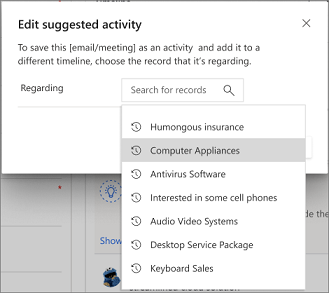
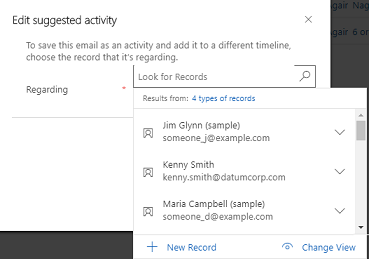
updated with screens

diff --git a/ai-docs/sales/premium-auto-capture.md b/ai-docs/sales/premium-auto-capture.md
@@ -16,11 +16,12 @@ caps.latest.revision: 01
 
 # Premium auto capture
 
-Premium auto capture provides suggestions to create contacts (in addition to capturing emails and meetings), based on communications by reducing overall time spent on these tasks and enabling sales personnel to focus on generating revenue.
+Premium auto capture provides suggestions to create contacts and activities in addition to capturing emails and meetings, based on communications by reducing overall time spent on these tasks and enabling sales personnel to focus on generating revenue.
+
 
 ## Provide consent
 
-When administrator enables premium auto capture, you need to provide consent  to allow Dynamics 365 Sales to access your Outlook data so that auto capture can provide suggestions on activities and contacts. You can provide consent through one of the following:
+When administrator enables premium auto capture, you need to provide consent to allow Dynamics 365 Sales to access your Outlook data so that auto capture can provide suggestions on activities and contacts. You can provide consent through one of the following options:
 
 -	[Timeline](#through-timeline)
 
@@ -34,17 +35,14 @@ When administrator enables premium auto capture, you need to provide consent  to
 
 2.	From the site map, select an entity. For example, **Opportunities**.
 
-3.	Select a record from the list. For example, Interest shown in AX27.
-
-    > [!div class="mx-imgBorder"]
-    > ![ ](media/ " ")
+3.	Select a record from the list.
 
 4.	On the **Timeline**, select **Allow access** to provide consent.
 
     > [!div class="mx-imgBorder"]
     > ![Provide consent on timeline](media/auto-capture-timeline-provide-consent.png "Provide consent on timeline") 
 
-    After you provide your consent, premium auto capture gathers the relevant suggestions, such as contacts and activities.
+    After you provide your consent, auto capture gathers the relevant suggestions, such as contacts and activities.
 
 ### Through Relationship assistant section
 
@@ -70,8 +68,15 @@ When administrator enables premium auto capture, you need to provide consent  to
 
 3.	From the site map, select **Sales Insights** > **Personal settings** > **Productivity intelligence** > **Auto capture**.
 
-<!-- complete this section -->
+4.	Enable the **Enable preview version** option to provide consent that allows Dynamics 365 to access your Outlook data to get activity and contact suggestions. 
 
+    > [!div class="mx-imgBorder"]
+    > ![Provide consent through personal settings](media/auto-capture-premium-consent-personal-settings.png "Provide consent through personal settings") 
+
+    > [!NOTE]
+    > Disable the **Enable preview version** option if you don't want Dynamics 365 to access your Outlook data to get activity and contact suggestions. 
+
+     After you provide your consent, the auto capture gathers the relevant suggestions, such as contacts and activities.
 
 
 ## Manage activity suggestions on Timeline
@@ -83,7 +88,7 @@ When you open a record of an entity, the **Timeline** displays the activity sugg
 
 By default, a single suggestion is displayed. Select **Show more** and the suggestions are expanded to display up to three suggestions. 
 
-If you have more than three suggestions, the **Show all** option is displayed. Select **Show all** to view all the available suggestions.
+If you've more than three suggestions, the **Show all** option is displayed. Select **Show all** to view the list available suggestions.
 
 > [!div class="mx-imgBorder"]
 > ![Auto capture all activity suggestions](media/auto-capture-premium-all-activity-suggestions.png "Auto capture all activity suggestions")
@@ -93,18 +98,18 @@ If you have more than three suggestions, the **Show all** option is displayed. S
     > [!div class="mx-imgBorder"]
     > ![Save activity suggestion on timeline](media/auto-capture-premium-save-activity-suggestion-timeline.png "Save activity suggestion on timeline") 
 
--	**Edit**: Select this option to add a suggestion as an activity for another record. When you edit and save the suggestion, it will be available as activity on the **Timeline** wall of the added record and is visible for users who access that record. For example, you opened an opportunity **Interest shown in AX27**. On the **Timeline**, you observe that **Gern Blanston sent an email** suggestion is more appropriate for **Computer Appliances** opportunity than the suggested opportunity. Select the edit option and use the **Regarding** lookup entity to choose **Computer Appliances**. 
+-	**Edit**: Select this option to add a suggestion as an activity for another record. When you edit and save the suggestion, it's available as activity on the **Timeline** wall of the added record and is visible for users who has access to the record. For example, you opened an email from **Gern Blanston**. On the **Timeline**, you observe that **Gern Blanston sent an email** suggestion is more appropriate for **Jim Glynn** than the suggested email. Select the edit option and use the **Regarding** lookup entity to choose **Jim Glynn**. 
  
     > [!div class="mx-imgBorder"]
     > ![Edit activity suggestion on timeline](media/auto-capture-premium-edit-activity-suggestion-timeline.png "Edit activity suggestion on timeline") 
 
-    Save the change and a confirmation message displays specifying that the activity is added to the **Computer Appliances** opportunity.
+    Save the change and a confirmation message displays specifying that the activity is added to the **Jim Glynn** email.
 
--	**Dismiss**: Select this option if you do not want a suggestion to be added as an activity on the **Timeline** wall. For example, you opened an opportunity **Interest shown in AX27**. On the **Timeline**, you observe that **Gern Blanston sent an email** suggestion is not appropriate for regarding field that it is associated with and you want to ignore. Select the dismiss option and a confirmation message is displays. Select **OK** and the suggestion is ignored from the list. 
+-	**Dismiss**: Select this option if you don't want to add a suggestion as activity on the **Timeline** wall. For example, you opened an opportunity **Interest shown in AX27**. On the **Timeline**, you observe that **Gern Blanston sent an email** suggestion is not appropriate for regarding fields that it is associated with and you want to ignore. Select the dismiss option and a confirmation message is displays. Select **OK** and the suggestion is ignored from the list. 
 
 ## Manage activity suggestions through grid
 
-The activity suggestions grid provides a single view for all the captured activities based on your communications. This ensures that the information is not lost on **Timeline** and helps you keep track of activity suggestions at one location (**Activity suggestion** grid). The activity list consists of emails and meetings that are fetched and captured from your Outlook data by premium auto capture. 
+The activity suggestions grid provides a single view for all the captured activities based on your communications. This ensures the information isn't lost on **Timeline** and helps you track activity suggestions at one location (**Activity suggestion** grid). The activity list consists of emails and meetings that are fetched and captured from your Outlook data by premium auto capture. 
 
 > [!div class="mx-imgBorder"]
 > ![Activity suggestion grid view](media/auto-capture-premium-activity-suggestion-grid-view.png "Activity suggestion grid view")
@@ -119,7 +124,7 @@ The Activity suggestions grid consists of the following columns:
 
 -	**Regarding**: This column specifies the record for which the activity can be added.
 
-Also, **Relationship assistant** displays a card to alert you when new activity suggestions are available. Select **Open activity suggestions** to open the **Activity suggestions** grid and perform appropriate actions on the suggestions.
+Also, **Relationship assistant** displays a card to alert you when new activity suggestions are available. Select **Open activity suggestions** to open the **Activity suggestions** grid and take appropriate actions on the suggestions.
 
 > [!div class="mx-imgBorder"]
 > ![Activity suggestion in relationship assistant](media/auto-capture-premium-activity-suggestion-relationship-assistant.png "Activity suggestion in relationship assistant")
@@ -136,14 +141,14 @@ To save an activity to be visible on the **Timeline** wall for a record for othe
 
 1.	Sign in to Dynamics 365 Sales Hub app.
 
-2.	From the site map, select **Auto capture (preview)** > **Activity suggestions**.
+2.	From the site map, select **AutoCapture Preview** > **Activity suggestions**.
 
     A list of available activities displays.
 
     > [!div class="mx-imgBorder"]
     > ![Activity suggestion grid view](media/auto-capture-premium-activity-suggestion-grid-view.png "Activity suggestion grid view")
 
-3.	Select an activity. In this example, we are selecting an email from **Phyllis Reid** that is related to **Printers and Paper clips**.
+3.	Select an activity. In this example, we're selecting an email from **Phyllis Reid** that is related to **Printers and Paper clips**.
 
     > [!div class="mx-imgBorder"]
     > ![Select an activity](media/auto-capture-premium-select-activity-suggestion.png "Select an activity")
@@ -159,25 +164,25 @@ To save an activity to be visible on the **Timeline** wall for a record for othe
 
 ### Edit activity
 
-After reviewing the activity suggestion, you identify that the activity suggestion does not belong to the assigned **Regarding** entity. You can change regarding entity by selecting the appropriate entity for which the activity belongs. Follow these steps:
+After reviewing the activity suggestion, you identify that the activity suggestion doesn't belong to the assigned **Regarding** entity. You can change regarding entity by selecting the appropriate entity for which the activity belongs. Follow these steps:
 
 1.	Sign in to Dynamics 365 Sales Hub app.
 
-2.	From the site map, select **Auto capture (preview)** > **Activity suggestions**.
+2.	From the site map, select ***AutoCapture Preview** > **Activity suggestions**.
 
     A list of available activities displays.
 
     > [!div class="mx-imgBorder"]
     > ![Activity suggestion grid view](media/auto-capture-premium-activity-suggestion-grid-view.png "Activity suggestion grid view")
  
-3.	Select an activity suggestion. In this example, we are selecting an email from **Phyllis Reid** that is related to **Printers and Paper clips**.
+3.	Select an activity suggestion. In this example, we're selecting an email from **Phyllis Reid** that is related to **Printers and Paper clips**.
 
     > [!div class="mx-imgBorder"]
     > ![Select an activity](media/auto-capture-premium-select-activity-suggestion.png "Select an activity")
 
 4.	Select **Edit and save**. A dialog opens to select the new regarding entity.
 
-5.	Use the **Regarding** lookup entity to select a regarding entity for the activity suggestion. In this example, we are selecting **Computer Appliances** regarding.
+5.	Use the **Regarding** lookup entity to select a regarding entity for the activity suggestion. In this example, we're selecting **Jim Glynn** regarding.
 
     > [!div class="mx-imgBorder"]
     > ![Edit activity suggestion on timeline](media/auto-capture-premium-edit-activity-suggestion-timeline.png "Edit activity suggestion on timeline") 
@@ -188,18 +193,18 @@ After reviewing the activity suggestion, you identify that the activity suggesti
 
 ### Delete activity
 
-Delete activity suggestions if you do not want them to add as activities on Timeline. Follow these steps:
+Delete activity suggestions if you don't want them to add as activities on Timeline. Follow these steps:
 
 1.	Sign in to Dynamics 365 Sales Hub app.
 
-2.	From the site map, select **Auto capture (preview)** > **Activity suggestions**.
+2.	From the site map, select ***AutoCapture Preview** > **Activity suggestions**.
 
     A list of available activities displays.
 
     > [!div class="mx-imgBorder"]
     > ![Activity suggestion grid view](media/auto-capture-premium-activity-suggestion-grid-view.png "Activity suggestion grid view")
  
-3.	Select an activity suggestion. In this example, we are selecting an email from **Phyllis Reid** that is related to **Printers and Paper clips**.
+3.	Select an activity suggestion. In this example, we're selecting an email from **Phyllis Reid** that is related to **Printers and Paper clips**.
 
     > [!NOTE]
     > You can select multiple activity suggestions to delete.
@@ -231,7 +236,7 @@ The Contact suggestions grid consists of the following columns:
 
 -	**Email**: This column specifies the email address of the contact suggestion.
 
-Also, **Relationship assistant** displays a card to alert you when a contact suggestion is available. Select **Open contact suggestions** to open the **Contact suggestions grid** and perform appropriate actions on the suggestions.
+Also, **Relationship assistant** displays a card to alert you when a contact suggestion is available. Select **Open contact suggestions** to open the **Contact suggestions grid** and take appropriate actions on the suggestions.
 
 > [!div class="mx-imgBorder"]
 > ![Contact suggestion in relationship assistant](media/auto-capture-premium-contact-suggestion-relationship-assistant.png "Contact suggestion in relationship assistant")
@@ -248,14 +253,14 @@ To save a contact, follow these steps:
 
 1.	Sign in to Dynamics 365 Sales Hub app.
 
-2.	From the site map, select **Auto capture (preview)** > **Contact suggestions**.
+2.	From the site map, select ***AutoCapture Preview** > **Contact suggestions**.
 
     A list of available contact suggestions is displayed.
 
     > [!div class="mx-imgBorder"]
     > ![Contact suggestion grid view](media/auto-capture-premium-contact-suggestion-grid-view.png "Contact suggestion grid view")
 
-3.	Select a contact. In this example, we are selecting **Joel Mccoy**.
+3.	Select a contact. In this example, we're selecting **Joel Mccoy**.
 
     > [!div class="mx-imgBorder"]
     > ![Select a contact](media/auto-capture-premium-select-contact-suggestion.png "Select a contact")
@@ -275,41 +280,41 @@ After reviewing the contact suggestion, you identify that some information of th
 
 1.	Sign in to Dynamics 365 Sales Hub app.
 
-2.	From the site map, select **Auto capture (preview)** > **Contact suggestions**.
+2.	From the site map, select **AutoCapture Preview** > **Contact suggestions**.
 
     A list of available contact suggestions is displayed.
 
     > [!div class="mx-imgBorder"]
     > ![Contact suggestion grid view](media/auto-capture-premium-contact-suggestion-grid-view.png "Contact suggestion grid view")
 
-3.	Select a contact. In this example, we are selecting **Joel Mccoy**.
+3.	Select a contact. In this example, we're selecting **Joel Mccoy**.
 
     > [!div class="mx-imgBorder"]
     > ![Select a contact](media/auto-capture-premium-select-contact-suggestion.png "Select a contact")
 
-4.	Select **Edit and save**. A dialog opens to edit the contact information.
+4.	Select **Edit and save**. A **Quick Create: Contact** form opens to edit the contact information.
 
     > [!div class="mx-imgBorder"]
-    > ![ ](media/  " ")
+    > ![Edit a contact information](media/auto-capture-premium-edit-contact-quick-create-form.png  "Edit a contact information")
 
-5.	Edit the contact information as required and select **Save**. 
+5.	Edit the contact information as required and select **Save and Close**. 
 
     The contact is created and saved in your Dynamics 365 organization, and a confirmation message is displayed at the bottom of the screen.
 
 ### Delete contact
 
-Delete contact suggestions if you do not want them to add to your contact list. Follow these steps:
+Delete contact suggestions if you don't want them to add to your contact list. Follow these steps:
 
 1.	Sign in to Dynamics 365 Sales Hub app.
 
-2.	From the site map, select **Auto capture (preview)** > **Contact suggestions**.
+2.	From the site map, select ***AutoCapture Preview** > **Contact suggestions**.
 
     A list of available contact suggestions is displayed.
 
     > [!div class="mx-imgBorder"]
     > ![Contact suggestion grid view](media/auto-capture-premium-contact-suggestion-grid-view.png "Contact suggestion grid view")
 
-3.	Select a contact. In this example, we are selecting **Joel Mccoy**.
+3.	Select a contact. In this example, we're selecting **Joel Mccoy**.
 
     > [!NOTE]
     > You can select multiple contact suggestions to delete.

diff --git a/ai-docs/sales/free-auto-capture.md b/ai-docs/sales/free-auto-capture.md
@@ -21,15 +21,13 @@ The captured activities shown on timeline wall, rely on a set of rules, specific
 > [!div class="mx-imgBorder"]
 > ![ ](media/ " ")
 
-The screenshot shows tracked and auto-captured (not tracked) emails on Timeline, and highlights the following:
+The screenshot shows tracked and auto captured (not tracked) emails on Timeline, and highlights the following:
 
-1.	**Tracked emails**: This email is already being tracked, so it is already imported into Sales and is being shared with your team. A black color envelope symbol is used to Indicate that the mail is tracked, imported into Sales, and shared with your team.
+1.	**Tracked emails**: This email is already being tracked, so it is already imported into Sales and is being shared with your team. A envelope symbol is used to indicate that the mail is tracked, imported into Sales, and shared with your team.
 
 2.	**Auto capture emails**: These emails were detected by auto capture as being relevant to the current record, but they are still private so only you can see them. Compared to tracked messages, these messages show a gray symbol and a dotted border, and include a **Track** link and a private email label.
 
 3.	**Track link**: Select the link to track an activity captured by auto capture, making it visible to everyone with access to the timeline wall of this specific record.
-
-4.	**Private label**: Activities found by auto capture but not yet tracked in Sales include this label to indicate their status.
 
 The activities captured by auto capture finds are only visible to you, so other members of your sales team will not be able to see them in Sales. Select the **Track** link to turn any auto capture message into a tracked email message, save the activity into the Sales database and makes it visible to other members of your team. It may take a few minutes for an activity to go from untracked to tracked, during which time it will show a **Tracking pending** message.
 
